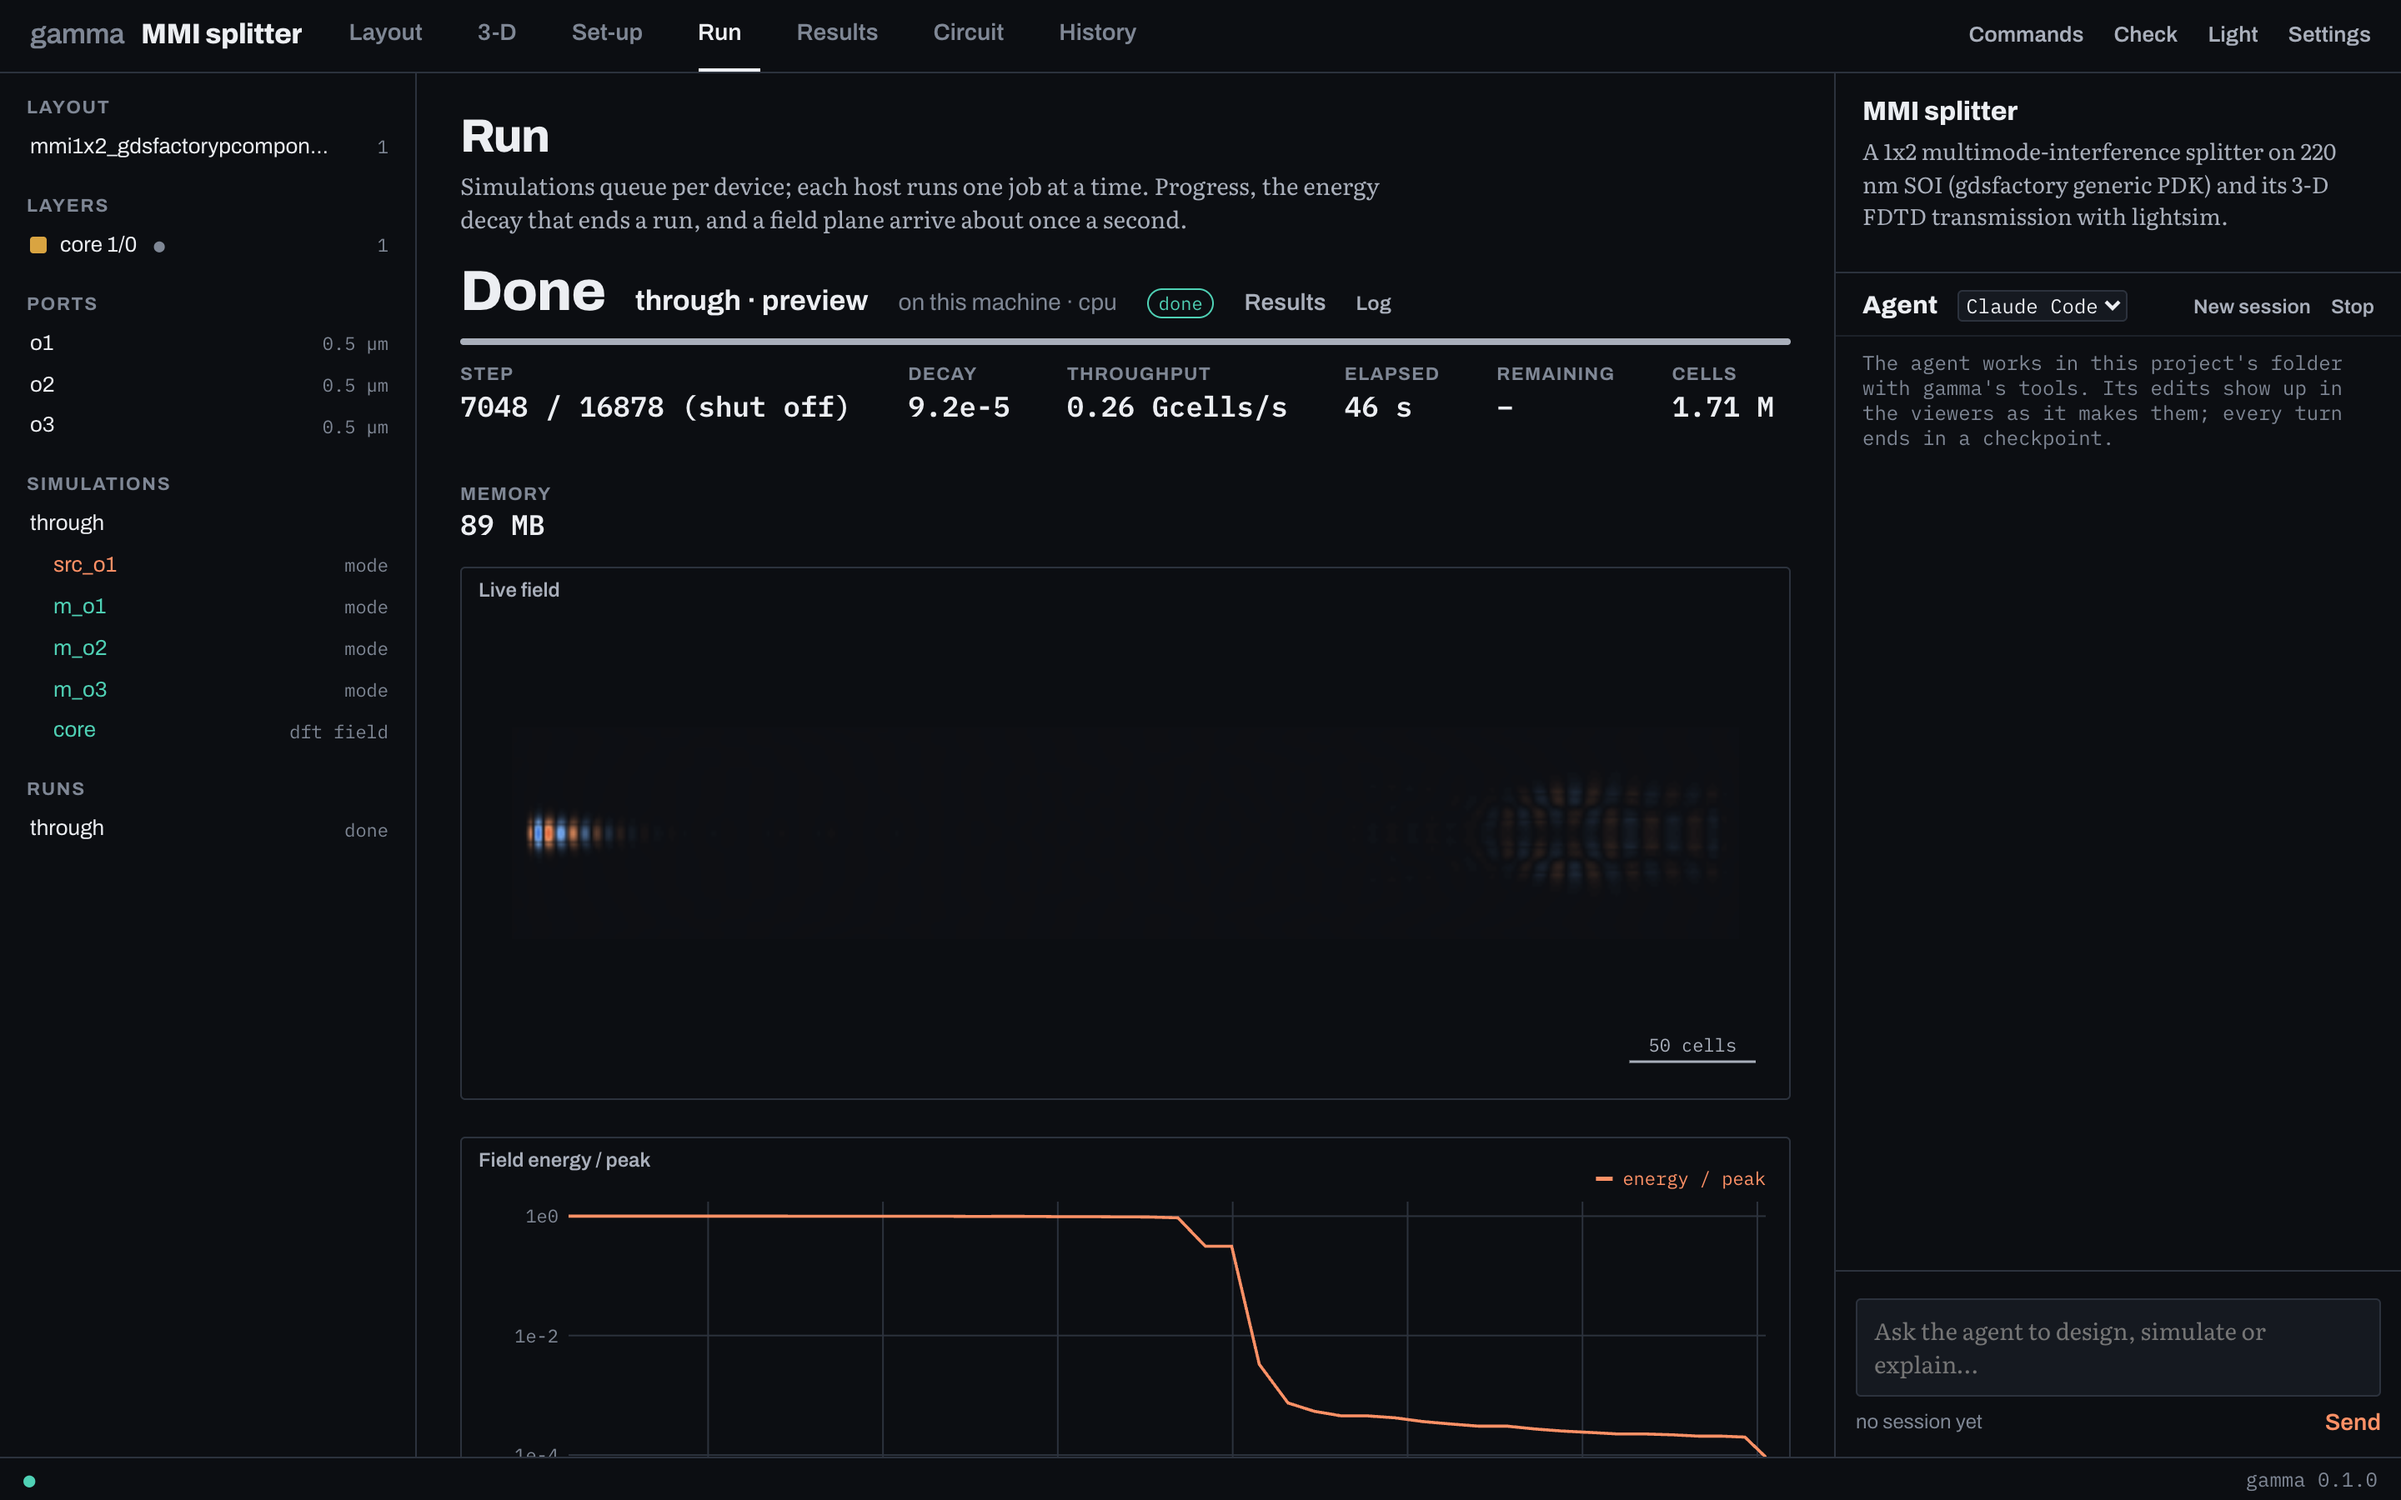
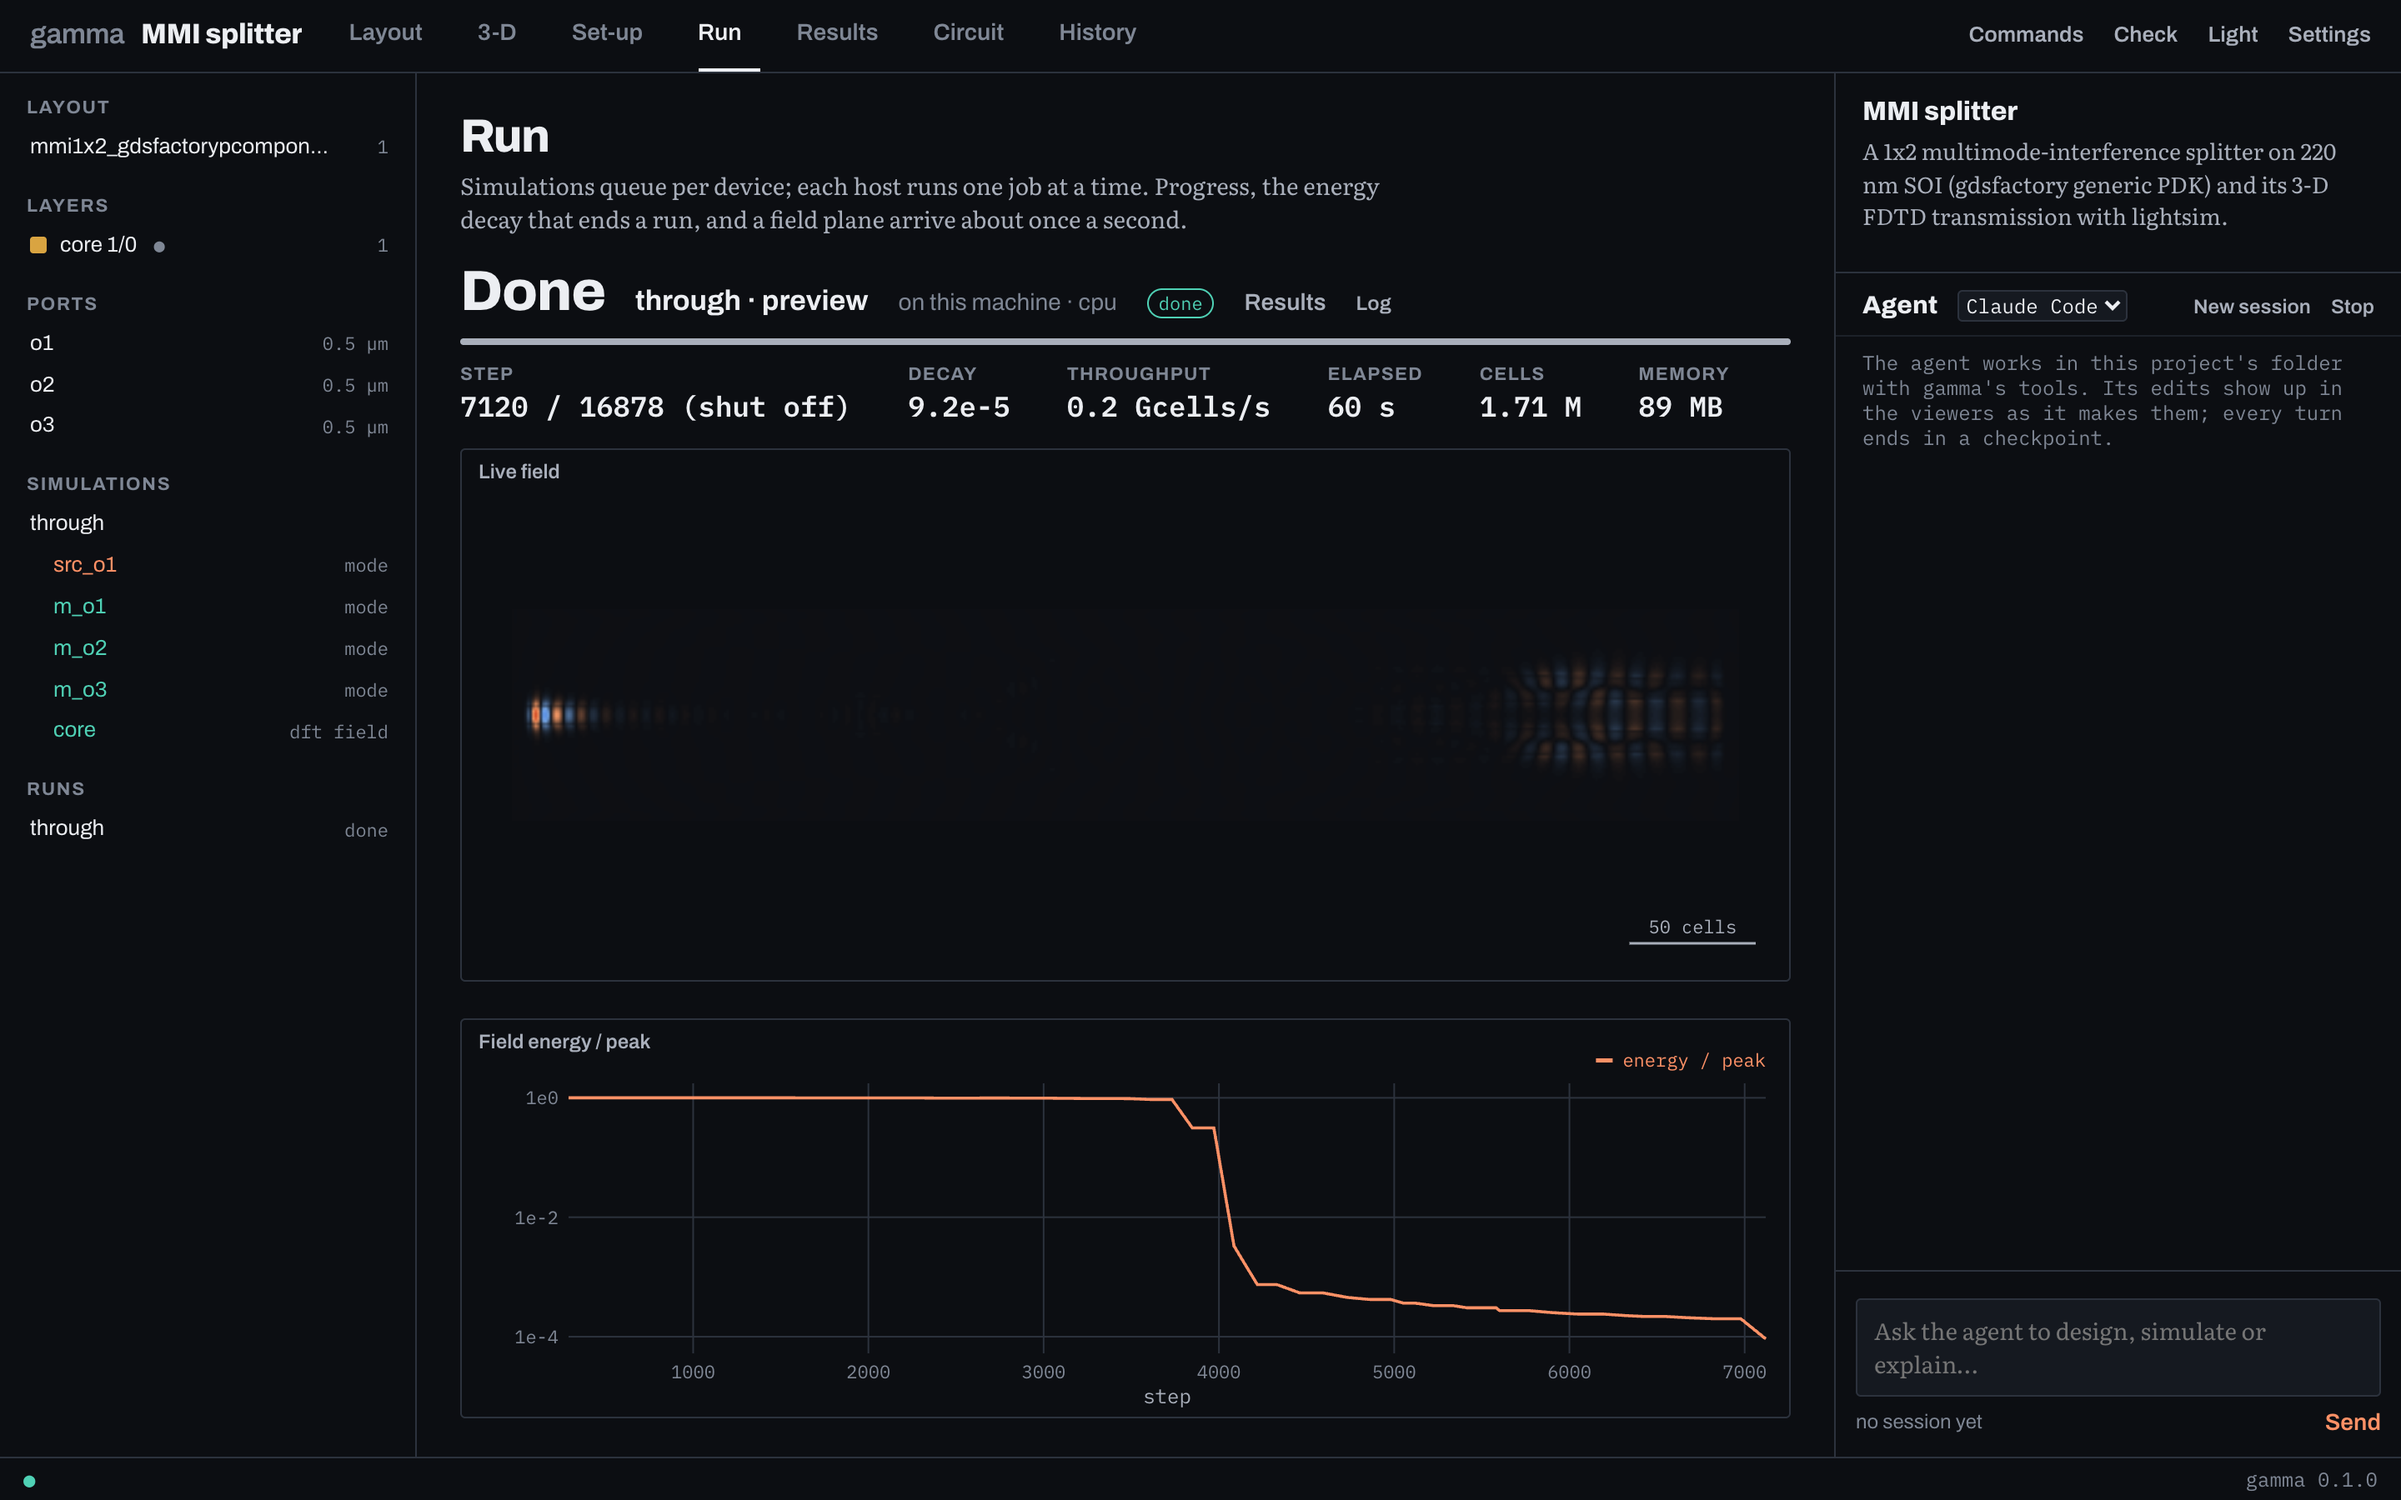
RTX PRO 6000 test record, lightsim ring-sensor example in the quick start, screenshots from the current build, objects near the slice plane, kports example

diff --git a/app/ui/src/views/setup.ts b/app/ui/src/views/setup.ts
@@ -84,9 +84,10 @@ export class SetupView {
     if (sm) {
       const r = sm.region;
       ov.push({ min: [r[0][a0] * 1e6, r[0][a1] * 1e6], max: [r[1][a0] * 1e6, r[1][a1] * 1e6], label: "region (absorbing layers outside)", color: css("--ink-3"), dashed: true });
+      const tol = 0.75 * sm.grid.max_cell[this.axis]; // objects within a cell of the plane
       for (const o of sm.objects) {
         if (o.kind === "structure") continue;
-        if (o.min[this.axis] > s.coord + 1e-12 || o.max[this.axis] < s.coord - 1e-12) continue;
+        if (o.min[this.axis] > s.coord + tol || o.max[this.axis] < s.coord - tol) continue;
         ov.push({ min: [o.min[a0] * 1e6, o.min[a1] * 1e6], max: [o.max[a0] * 1e6, o.max[a1] * 1e6], label: o.name, color: o.kind === "source" ? css("--source") : css("--monitor"), ref: o.reference });
       }
     }

diff --git a/crates/gamma-hub/src/views.rs b/crates/gamma-hub/src/views.rs
@@ -108,7 +108,8 @@ pub fn render(
             let mut overlays = vec![];
             for o in summary.objects.iter().filter(|o| o.kind != "structure") {
                 // objects that cross the plane
-                if o.min[axis] > sl.coord + 1e-12 || o.max[axis] < sl.coord - 1e-12 {
+                let tol = 0.75 * summary.grid.max_cell[axis];
+                if o.min[axis] > sl.coord + tol || o.max[axis] < sl.coord - tol {
                     continue;
                 }
                 let color: Rgb = if o.kind == "source" {

diff --git a/crates/gamma-core/examples/kports.rs b/crates/gamma-core/examples/kports.rs
@@ -1,0 +1,11 @@
+//! Print the ports gdsfactory stored in a GDS file: `cargo run -p gamma-core --example kports -- file.gds`.
+fn main() {
+    let p = std::env::args().nth(1).expect("a GDS file");
+    let lib = gamma_core::gds::Library::read(std::path::Path::new(&p)).unwrap();
+    let tops = lib.top_cells();
+    println!("top cells {tops:?}");
+    for (k, v) in &lib.meta {
+        println!("metadata of '{k}': {} entries", v.len());
+    }
+    println!("{:?}", lib.kfactory_ports(tops[0]));
+}

diff --git a/docs/quickstart.md b/docs/quickstart.md
@@ -68,8 +68,49 @@ of its turn is a checkpoint you can compare in History.
 
 The worked examples published with lightsim (Mach–Zehnder modulator, ring
 sensor, grating coupler, quantum circuits…) are gdsfactory designs with
-lightsim simulation scripts. To open one in gamma, add a `gamma.toml` to a
-copy of its folder: `[layout]` pointing at the example's GDS and a
-`[[simulation]]` whose generator writes the spec with
-`gamma_pic.write_sim(build(...), "name")` from the example's `simulate.py`
-builder.
+lightsim simulation scripts, and open in gamma with three small files next to
+them. For the ring sensor (`s2-ring-sensor`):
+
+`gamma.toml`
+
+```toml
+[project]
+name = "Ring sensor"
+
+[layout]
+gds = "gds/s2-ring-sensor.gds"      # ports come from the gdsfactory metadata in the file
+stack = "stack.toml"
+
+[[simulation]]
+name = "ringdown"
+spec = "build/sims/ringdown.json"
+generator = "sims/ringdown.py"
+
+[simulation.preview]
+mesh_scale = 2.0
+run_time_scale = 0.5
+```
+
+`stack.toml`: the 220 nm silicon core on layer 1/0, oxide below, water
+above. `sims/ringdown.py`: the example's own builder, written as a spec.
+
+```python
+import lightsim as ls
+from lightsim.spec import nm
+import simulate as S
+from gamma_pic import mesh_scale, run_time_scale, write_sim
+
+k = mesh_scale()
+sim = S.build(1.333, [20 * nm * k, 20 * nm * k, 22 * nm * k], 1.0e-12 * run_time_scale())
+sim.add_source(ls.PointDipole(S.DIPOLE, "Ey", ls.GaussianPulse(S.F0, 0.06 * S.F0), amplitude=1e-12, name="dipole"))
+sim.add_monitor(ls.ProbeMonitor("ring", S.PROBE, ["Ey"]))
+sim.add_monitor(ls.DFTMonitor("core", [S.XLO, S.YLO, 0.5 * S.T], [S.XHI, S.YHI, 0.5 * S.T], [S.F0]))
+write_sim(sim, "ringdown")
+```
+
+The full simulation is 46.7 M cells (a GPU job, about 2 GB); the preview,
+7.9 M cells, took 3 minutes on an Apple M1 Pro.
+
+| | |
+|---|---|
+| ![Ring sensor layout](img/ring-layout-light.png) | ![Ring sensor set-up](img/ring-setup-dark.png) |

diff --git a/docs/test-runs/2026-11-22-gpu-rtx-pro-6000.md b/docs/test-runs/2026-11-22-gpu-rtx-pro-6000.md
@@ -1,0 +1,26 @@
+# Remote run on an NVIDIA RTX PRO 6000 (x86_64) — 2026-11-22
+
+The vertical slice: the MMI example (`examples/mmi-splitter`, full mesh, 4.6 M
+cells) opened in gamma on a Mac (Apple M1 Pro, no CUDA), run with
+`gamma run through --host rtx --device cuda:1` on a remote x86_64 machine with
+two RTX PRO 6000 (Blackwell Max-Q) GPUs. The host entry uses a `{host}`
+launcher: the machines' job queue, which held the job behind other users' GPU
+jobs for about 88 minutes before it ran; gamma staged the spec over SSH,
+the queue ran `gamma worker`, progress streamed back, and the results file was
+fetched into `results/through/<run>/`.
+
+```text
+  step 1751/27004  decay 1.0e0  16132 Mcells/s
+  step 5122/27004  decay 9.8e-1  15382 Mcells/s
+  step 8400/27004  decay 1.8e-5  15024 Mcells/s
+done: results/through/<run>
+
+backend: cuda:1 (NVIDIA RTX PRO 6000 Blackwell Max-Q Workstation Edition, fused)
+cells 4,608,448, 9000 steps (shut off at 1e-5 of peak energy), 2.76 s, 15.0 Gcells/s
+S at 1550 nm: o2@0,o1@0 -3.06 dB, o3@0,o1@0 -3.06 dB, o1@0,o1@0 -35.7 dB
+```
+
+The same spec on a GB10: 17.4 s, 2.39 Gcells/s, −3.04 dB per arm
+([gpu-gb10](2026-11-22-gpu-gb10.md)). lightsim's own benchmarks give 18–27
+Gcells/s on this GPU for larger boxes; this 4.6 M-cell problem is small for
+it.

diff --git a/docs/test-runs/README.md b/docs/test-runs/README.md
@@ -9,4 +9,5 @@ are named by model.
 | 2026-11-22 | Update flow, macOS arm64 | [update-macos](2026-11-22-update-macos.md) |
 | 2026-11-22 | Linux packages (x86_64, aarch64), .deb install, AppImage update flow | [linux-packages-and-update](2026-11-22-linux-packages-and-update.md) |
 | 2026-11-22 | GB10: GPU vs CPU, throughput, remote run from a hub | [gpu-gb10](2026-11-22-gpu-gb10.md) |
+| 2026-11-22 | RTX PRO 6000: remote run from a Mac hub through a job queue | [gpu-rtx-pro-6000](2026-11-22-gpu-rtx-pro-6000.md) |
 | 2026-11-22 | Claude Code driving gamma through MCP | [agent-mcp](2026-11-22-agent-mcp.md) |

diff --git a/docs/remote.md b/docs/remote.md
@@ -68,6 +68,7 @@ Cancelling stops the remote worker.
 
 | Host GPU | Simulation | Cells | Rate |
 |---|---|---|---|
+| RTX PRO 6000 (x86_64) | MMI splitter, full mesh | 4.6 M | 15.0 Gcells/s, 2.8 s solver time |
 | GB10 (aarch64) | MMI splitter, full mesh | 4.6 M | 2.39 Gcells/s, 17.4 s solver time |
 
 Records: [test-runs/](test-runs/).
